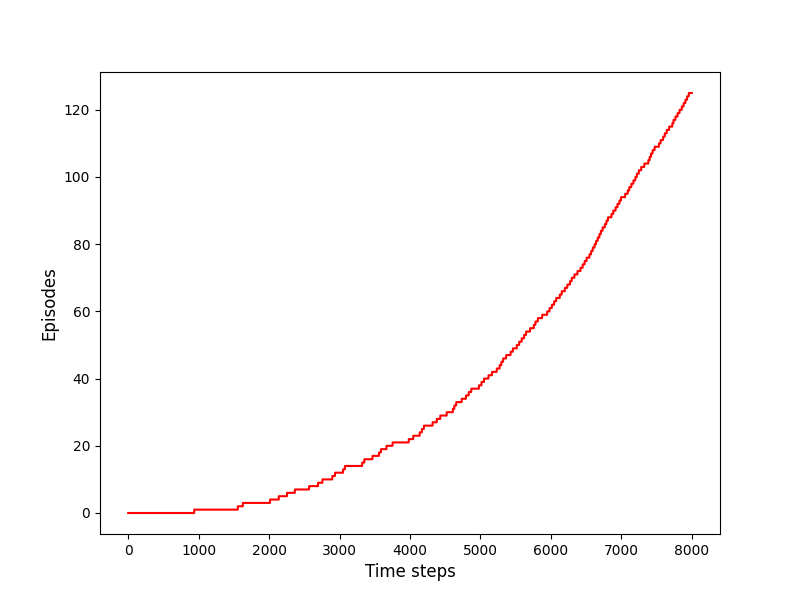
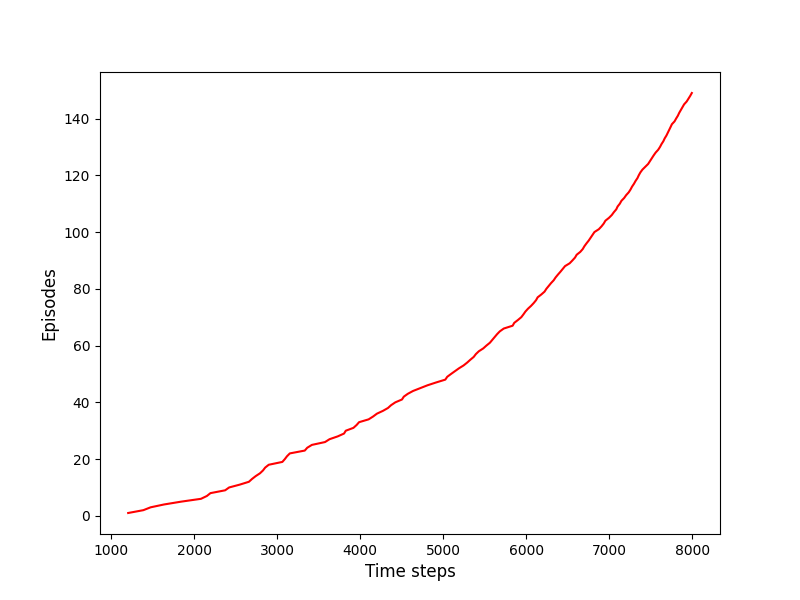
Policy is now a class

diff --git a/chapter6/controller.py b/chapter6/controller.py
@@ -1,11 +1,33 @@
+from abc import ABC, ABCMeta, abstractmethod
 import numpy as np
-from typing import Callable, List, Optional
+from typing import Any, Callable, Optional, Tuple
 
 from tqdm import trange
 
 from chapter5.env import Enviroment
-from chapter5.types import State
+from chapter5.types import State, Trajectory
 from chapter5.controller import DiscreteController
+
+
+class Policy(metaclass=ABCMeta):
+    def __init__(self, controller: DiscreteController, *args: Any, **kwds: Any):
+        pass
+
+    @abstractmethod
+    def update(self, *args: Any, **kwds: Any):
+        pass
+
+    @abstractmethod
+    def greedy_action(self, *args: Any, **kwds: Any) -> int:
+        pass
+
+    @abstractmethod
+    def prob(self, *args: Any, **kwds: Any) -> float:
+        pass
+
+    @abstractmethod
+    def __call__(self, *args: Any, **kwds: Any) -> Any:
+        pass
 
 
 class SARSAController(DiscreteController):
@@ -21,16 +43,17 @@ class SARSAController(DiscreteController):
 
     def predict(
         self,
-        policy: Callable[[DiscreteController, np.ndarray], int],
+        policy: Policy,
         alpha: float = 0.01,
         n_episodes: int = 1,
         init_state: Optional[State] = None,
         disable_tqdm: Optional[bool] = False,
         max_iters: Optional[int] = None,
     ):
-        done_history = []
-        dones = 0
+
+        history = {"dones_iter": []}
         total_iters = 0
+
         for _ in trange(
             n_episodes,
             desc=f"Value prediction iter",
@@ -41,30 +64,35 @@ class SARSAController(DiscreteController):
             else:
                 self.env.state = init_state
             done = False
+            reward = 0
 
             current_state = self.env.state
-            action = policy(self, current_state)
+            action, _ = policy(current_state)
+
+            trajectory = Trajectory()
             while not done and (max_iters is None or total_iters < max_iters):
+                trajectory.add_step(done, current_state, reward, action)
                 done, new_state, reward = self.env.step(action)
-                dones += int(done)
                 total_iters += 1
-                done_history.append(dones)
-                if not done:
-                    next_action = policy(self, new_state)
-                else:
+                if done:
+                    history["dones_iter"].append(total_iters)
                     next_action = None
-                self._update_Q(
-                    alpha,
-                    current_state,
-                    action,
-                    new_state,
-                    next_action,
-                    done,
-                    reward,
-                )
+                else:
+                    next_action, _ = policy(new_state)
+                    self._update_Q(
+                        alpha,
+                        current_state,
+                        action,
+                        new_state,
+                        next_action,
+                        done,
+                        reward,
+                    )
                 current_state = new_state
                 action = next_action
-        return done_history
+            trajectory.add_step(done, current_state, reward, None)
+
+        return history
 
     def _update_Q(
         self,
@@ -72,23 +100,58 @@ class SARSAController(DiscreteController):
         current_state: State,
         action: int,
         new_state: State,
-        next_action,
+        next_action: int,
         done: bool,
         reward: float,
     ) -> None:
         c_sa_idx = self.state_action_to_idx(current_state, action)
         n_sa_idx = self.state_action_to_idx(new_state, next_action)
         next_q = 0 if done else self.Q[n_sa_idx]
-        self.Q[c_sa_idx] += alpha * (reward + self.gamma * next_q - self.Q[c_sa_idx])
+        self.Q[c_sa_idx] += alpha * ((reward + self.gamma * next_q) - self.Q[c_sa_idx])
 
 
-def e_greedy_policy(epsilon: float) -> Callable[[DiscreteController, np.ndarray], int]:
-    def policy(controller: DiscreteController, state: State) -> int:
-        if np.random.uniform() < epsilon:
-            action = controller.env.act_space.sample()
+class EpsilonGreedyPolicy(Policy):
+    def __init__(
+        self, controller: DiscreteController, epsilon: float, freeze: bool = False
+    ):
+        self.controller = controller
+        self.epsilon = epsilon
+        self.update(freeze)
+
+    def update(self, freeze: bool):
+        if freeze:
+            self.Q = np.copy(self.controller.Q)
+            self._ft = True
         else:
-            state_idx = controller.state_to_idx(state)
-            action = int(controller.Q[state_idx].argmax(-1))
-        return action
+            self.Q = self.controller.Q
+            self._ft = False
 
-    return policy
+    def greedy_action(self, state: State) -> int:
+        state_idx = self.controller.state_to_idx(state)
+        return int(self.Q[state_idx].argmax(-1))
+
+    def prob(self, state: State, action: int) -> float:
+
+        greedy_action = self.greedy_action(state)
+        prob = self.epsilon * 1.0 / self.controller.env.act_space.n
+
+        prob = self.epsilon * 1.0 / self.controller.env.act_space.n
+
+        if action == greedy_action:
+            prob += 1.0 - self.epsilon
+
+        return prob
+
+    def __call__(self, state: State) -> Tuple[int, float]:
+        greedy_action = self.greedy_action(state)
+
+        prob = self.epsilon * 1.0 / self.controller.env.act_space.n
+        if np.random.uniform() < self.epsilon:
+            action = self.controller.env.act_space.sample()
+        else:
+            action = greedy_action
+
+        if action == greedy_action:
+            prob += 1.0 - self.epsilon
+
+        return action, prob

diff --git a/chapter6/main.py b/chapter6/main.py
@@ -9,7 +9,7 @@ from tqdm import tqdm
 from chapter5.predictor import MonteCarloPredictor, Predictor
 from chapter6.env import RandomWalk, WindyGridWorld
 from chapter6.predictor import TDPredictor
-from chapter6.controller import SARSAController, e_greedy_policy
+from chapter6.controller import SARSAController, EpsilonGreedyPolicy
 
 
 def _figure_6_2_left(ax: plt.Axes, n_states: int, init_value: float):
@@ -164,14 +164,20 @@ def figure_6_2(figsize=(12, 6)):
 
 def example_6_5(figsize=(8, 6)):
     env = WindyGridWorld(7, 10, winds=[0, 0, 0, 1, 1, 1, 1, 2, 2, 0], reward_pos=[3, 7])
-    policy = e_greedy_policy(0.1)
     controller = SARSAController(env)
-
-    dones = controller.predict(policy, alpha=0.5, n_episodes=1_000, max_iters=8000)
-
+    policy = EpsilonGreedyPolicy(controller, 0.1)
+    history = controller.predict(
+        policy,
+        alpha=0.5,
+        n_episodes=8_000,
+        max_iters=8_000,
+    )
     fig = plt.figure(figsize=figsize)
     ax = fig.subplots(1, 1)
-    ax.plot(dones, color="r")
+    ax.plot(
+        history["dones_iter"], list(range(1, len(history["dones_iter"]) + 1)), color="r"
+    )
+
     ax.set_ylabel("Episodes", size=12)
     ax.set_xlabel("Time steps", size=12)
     fig.savefig("example_6_5.png", dpi=100)

diff --git a/chapter6/predictor.py b/chapter6/predictor.py
@@ -40,10 +40,12 @@ class TDPredictor(Predictor):
             else:
                 self.env.state = init_state
             done = False
+            reward = 0
             trajectory = Trajectory()
             while not done:
                 current_state = self.env.state
                 action = policy(current_state)
+                trajectory.add_step(done, current_state, reward, action)
                 done, new_state, reward = self.env.step(action)
                 self._update_V(
                     alpha,
@@ -53,7 +55,6 @@ class TDPredictor(Predictor):
                     reward,
                 )
                 current_state = new_state
-                trajectory.add_step(done, current_state, reward, action)
             trajectory.add_step(done, current_state, reward, None)
             self.history.append(trajectory)
 

diff --git a/chapter6/env.py b/chapter6/env.py
@@ -53,7 +53,7 @@ class WindyGridWorld(Enviroment):
         return (self._ns, self._ms)
 
     def step(self, action: int) -> Observation:
-        assert self.act_space.contains(action), "Invalid action"
+        assert self.act_space.contains(action), f"Invalid action {action}"
         clip = lambda x, maximum: 0 if x < 0 else maximum - 1 if x >= maximum else x
 
         self._ns += self.winds[self._ms] + self._map_action[action][0]

diff --git a/chapter5/types.py b/chapter5/types.py
@@ -33,6 +33,4 @@ class Trajectory:
         return self.steps[index]
 
     def __repr__(self) -> str:
-        return "\n".join(
-            [f"t={i}: {step.__dict__}" for i, step in enumerate(self.steps)]
-        )
+        return "\n".join([f"t={i}\t{step}" for i, step in enumerate(self.steps)])
